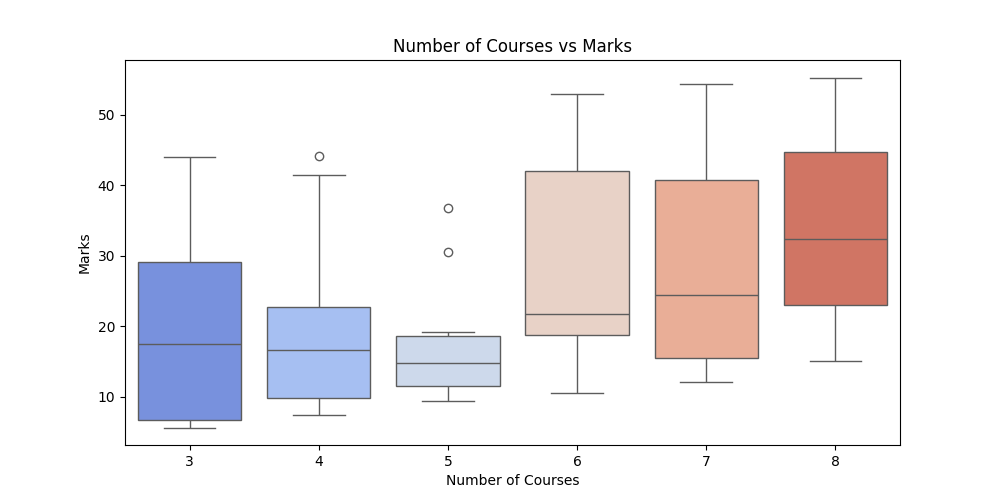
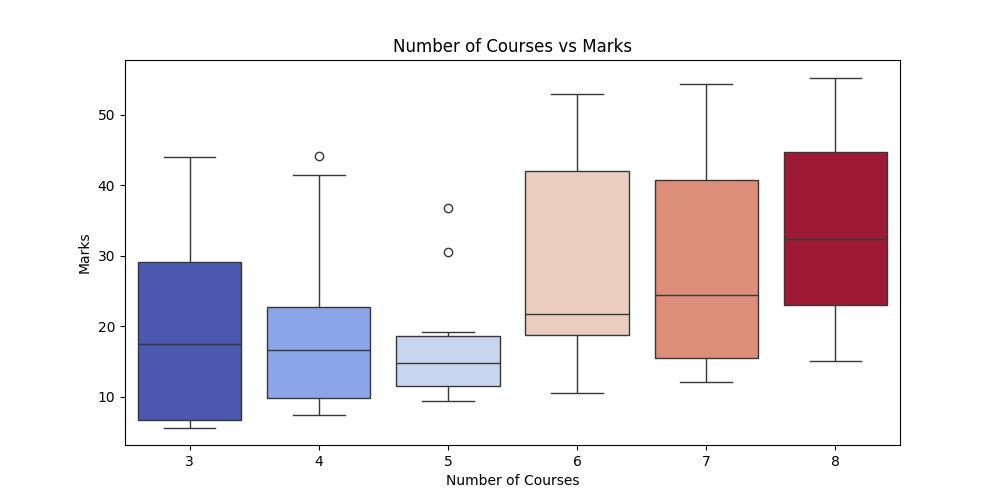
Added regression model and performance evaluation

Changed region(s): [[0.651, 0.3, 0.899, 0.72], [0.124, 0.51, 0.372, 0.87], [0.434, 0.66, 0.465, 0.69]]

diff --git a/main.py b/main.py
@@ -2,6 +2,9 @@ import pandas as pd
 import numpy as np  
 import matplotlib.pyplot as plt  
 import seaborn as sns
+from sklearn.model_selection import train_test_split
+from sklearn.linear_model import LinearRegression
+from sklearn.metrics import mean_absolute_error, r2_score
 
 df = pd.read_csv("Student_Marks.csv")    #Load dataset
 
@@ -62,14 +65,63 @@ plt.savefig("Regression line.png")
 
 #relationship between number of courses and marks 
 plt.figure(figsize=(10, 5))
-sns.boxplot(x=df["number_courses"], y=df["Marks"], palette="coolwarm")
+sns.boxplot(x=df["number_courses"], y=df["Marks"], hue=df["number_courses"], palette="coolwarm", legend=False)
+
 plt.title("Number of Courses vs Marks")
 plt.xlabel("Number of Courses")
 plt.ylabel("Marks")
 plt.savefig("Course_VS_Marks.png")
 
 
+# Correlation Matrix
+plt.figure(figsize=(8, 6))
+sns.heatmap(df.corr(), annot=True, cmap="coolwarm", fmt=".2f", linewidths=2)
+plt.title("Correlation Matrix")
+plt.savefig("correlation_matrix.png")
 
+
+# Creating a new feature: Marks per Course
+df["marks_per_course"] = df["Marks"] / df["number_courses"]
+
+# Display first few rows with the new column
+print(df.head())
+
+# Save the updated dataset
+df.to_csv("Updated_Student_Marks.csv", index=False)
+
+# Define features and target variable
+X = df[["time_study", "number_courses", "marks_per_course"]]
+y = df["Marks"]
+
+
+# Split data into training (80%) and testing (20%) sets
+X_train, X_test, y_train, y_test = train_test_split(X, y, test_size=0.2, random_state=42)
+
+# Initialize and train Linear Regression model
+model = LinearRegression()
+model.fit(X_train, y_train)
+
+# Predict on test data
+y_pred = model.predict(X_test)
+
+# Evaluate model
+r2 = r2_score(y_test, y_pred)
+mae = mean_absolute_error(y_test, y_pred)
+
+print(f"Model Performance:")
+print(f"R² Score: {r2:.2f}")
+print(f"Mean Absolute Error: {mae:.2f}")
+
+
+# Scatter plot: Actual vs Predicted Marks
+plt.figure(figsize=(8, 5))
+plt.scatter(y_test, y_pred, color="blue", label="Predictions")
+plt.plot([min(y_test), max(y_test)], [min(y_test), max(y_test)], linestyle="dashed", color="red", label="Perfect Fit") 
+plt.xlabel("Actual Marks")
+plt.ylabel("Predicted Marks")
+plt.title("Actual vs Predicted Marks")
+plt.legend()
+plt.savefig("Actual_vs_Predicted.png") 
 
 plt.show()
 
